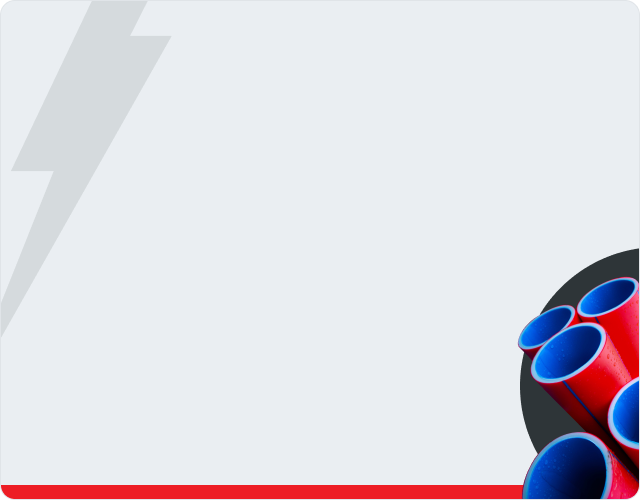
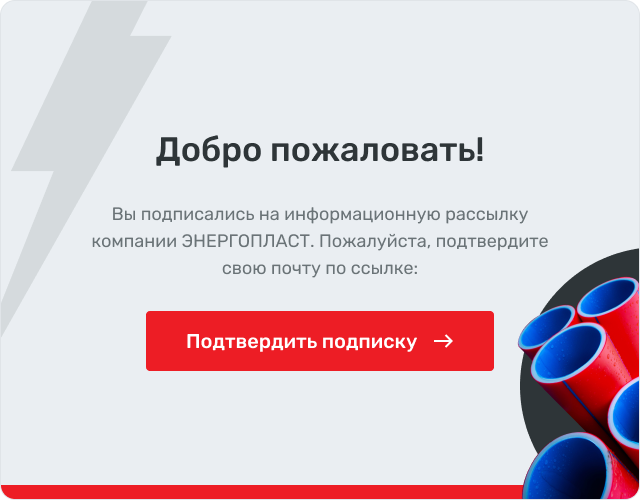
.

Changed region(s): [[0.2188, 0.6, 0.7812, 0.75], [0.125, 0.42, 0.875, 0.57], [0.2188, 0.27, 0.75, 0.33]]

diff --git a/index.html b/index.html
@@ -9,18 +9,41 @@
   <table border="0" cellpadding="0" cellspacing="0" style="margin:0; padding:0; text-align:center;" bgcolor="#F2F3F4" width="100%">
     <tr>
       <td height="100%" style="padding: 35px 30px;" align="center">
-        <table border="0" cellpadding="0" cellspacing="0" style="margin:0; padding:0; max-width: 640px; width: 100%;" width="100%">
+        <table border="0" cellpadding="0" cellspacing="0" style="margin:0; padding:0; max-width: 640px;" width="100%">
           <!-- screen 1 -->
           <tr>
-            <td background="screen1.png" style="height: 500px; text-align: center;" align="center" valign="center">
+            <!-- <td background="screen1.png" style="height: 500px; text-align: center;" align="center" valign="center">
               <p style="font-family: Rubik, Arial, sans-sarif; font-size: 34px; font-style: normal; font-weight: 500; line-height: 120%;">Добро пожаловать!</p>
               <p style="font-family: Rubik, Arial, sans-sarif; font-size: 18px; font-style: normal; font-weight: 400; line-height: 150%; color:#6A7377;">Вы подписались на информационную рассылку <br>компании ЭНЕРГОПЛАСТ. Пожалуйста, подтвердите <br>свою почту по ссылке:</p>
               <a href="#" style="display: inline-block; width: 350px; height: 60px;" target="_blank">
                 <img src="btn_red.png" alt="" border="0" width="350" height="60" style="display:block;"/>
               </a>
+            </td> -->
+            <td style="padding: 30px 0">
+              <span style="box-shadow: 0px 2px 30px 0px rgba(0, 0, 0, 0.08); display: block; border-radius: 15px;">
+                <a href="#" target="_blank">
+                  <img src="screen1.png" alt="" border="0" width="100%" style="display:block;"/>
+                </a>
+              </span>
             </td>
           </tr>
           <!-- end screen 1 -->
+          <!-- screen 2 -->
+          <tr>
+            <td style="padding: 30px 0;">
+              <span style="border-radius: 15px; display: block;">
+                <img src="screen2.png" alt="" border="0" width="100%" style="display:block;"/>
+                <span style="display: block; padding-bottom: 60px;" align="center">
+                  <p style="font-family: Rubik, Arial, sans-sarif; font-size: 34px; font-style: normal; font-weight: 500; line-height: 120%;">Добро пожаловать!</p>
+                  <p style="font-family: Rubik, Arial, sans-sarif; font-size: 18px; font-style: normal; font-weight: 400; line-height: 150%; color:#6A7377;">Вы подписались на информационную рассылку <br>компании ЭНЕРГОПЛАСТ. Пожалуйста, подтвердите <br>свою почту по ссылке:</p>
+                  <a href="#" style="display: inline-block; width: 350px; height: 60px;" target="_blank">
+                    <img src="btn_red.png" alt="" border="0" width="350" height="60" style="display:block;"/>
+                  </a>
+                </span>
+              </span>
+            </td>
+          </tr>
+          <!-- end screen 2 -->
         </table>
       </td>
     </tr>
